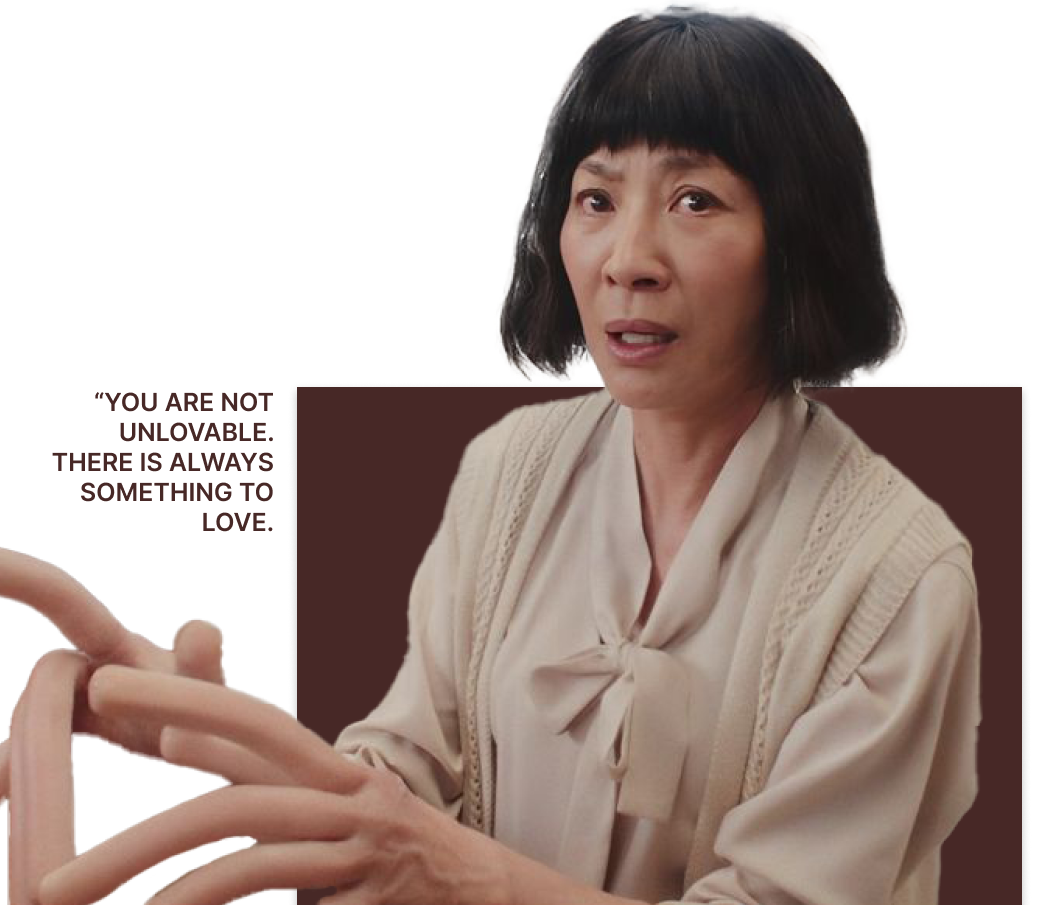
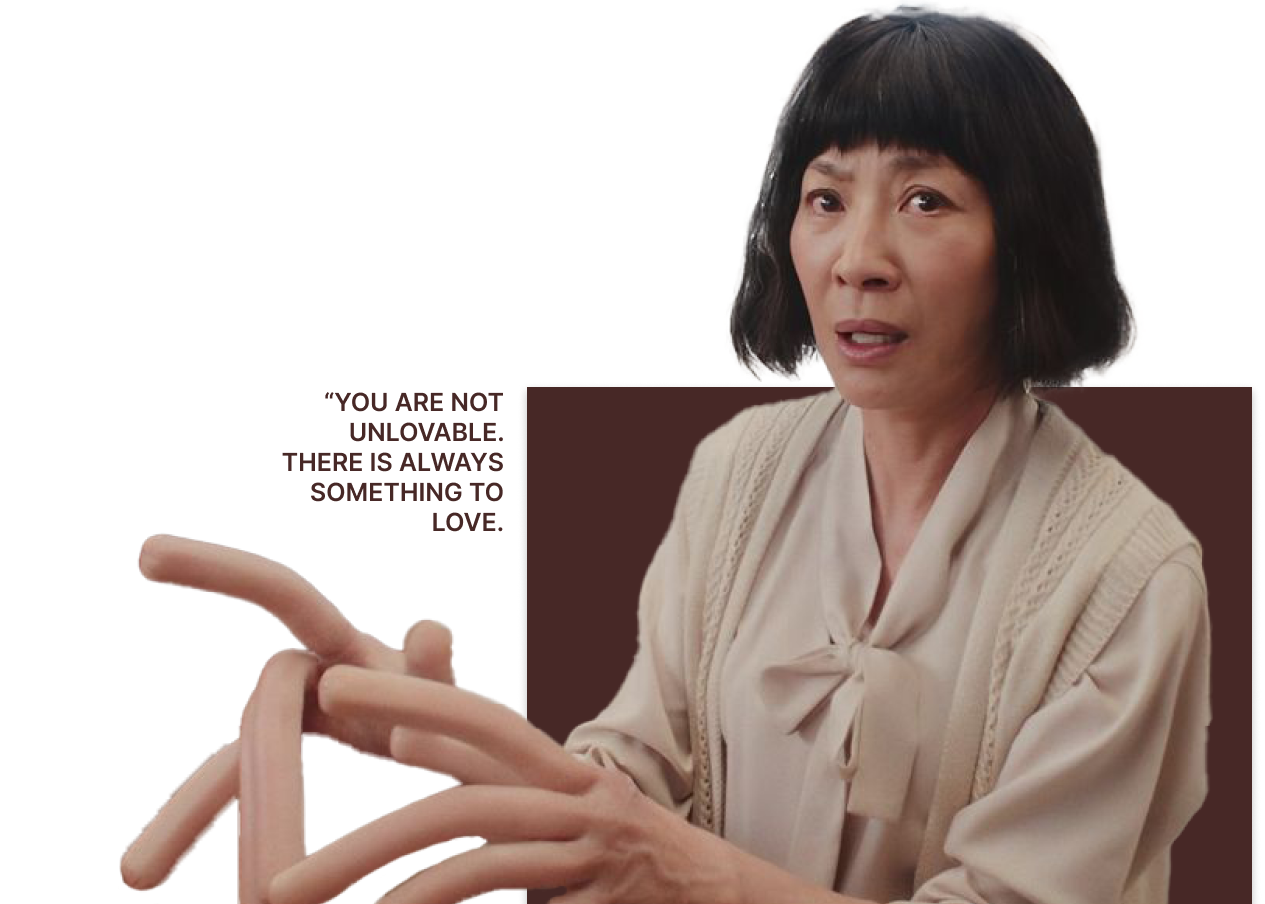
scrolling interactions

diff --git a/evelyn.html b/evelyn.html
@@ -34,29 +34,33 @@
 
         <div class="fight f1"><img src="rsrc/E/fight_f1.gif" alt="" class="fight f1" id="fightf1"></div>
         <div class="fight smoke1"><img src="rsrc/E/fight_smoke1.png" alt="" class="fight smoke1" id="fightsmoke1"></div>
-        <div class="fight f2"><img src="rsrc/E/fight_f2.png" alt="" class="fight f2" id="fightf2"></div>
+        <div class="fight f2"><img src="rsrc/E/fight_f2.png" alt="" class="fight f2" id="fightf2" style="opacity: 0;"></div>
         <div class="fight f3"><img src="rsrc/E/fight_f3.gif" alt="" class="fight f3" id="fightf3"></div>
         <div class="fight f4"><img src="rsrc/E/fight_f4.gif" alt="" class="fight f4" id="fightf4"></div>
         <div class="fight smoke2"><img src="rsrc/E/fight_smoke2.png" alt="" class="fight smoke2" id="fightsmoke2"></div>
-        <div class="fight f5"><img src="rsrc/E/fight_f5.png" alt="" class="fight f5" id="fightf5"></div>
+        <div class="fight f5"><img src="rsrc/E/fight_f5.png" alt="" class="fight f5" id="fightf5" style="opacity: 0;"></div>
         <div class="fight f6"><img src="rsrc/E/fight_f6.png" alt="" class="fight f6" id="fightf6"></div>
 
         <div class="whiteredbackground"><img src="rsrc/E/whiteredbackground.png" alt="" class="whiteredbackground" id="whiteredbackground"></div>
 
-        <div class="hotdog hdsmoke"><img src="rsrc/E/hotdog_hdsmoke.png" alt="" class="hotdog hdsmoke" id="hotdoghdsmoke"></div>
+        <div class="hotdog hdsmoke"><img src="rsrc/E/hotdog_hdsmoke.png" alt="" class="hotdog hdsmoke" id="hotdoghdsmoke" style="opacity: 0;"></div>
         <div class="hotdog hd2"><img src="rsrc/E/hotdog_hd2.png" alt="" class="hotdog hd2" id="hotdoghd2"></div>
         <div class="hotdog hd3"><img src="rsrc/E/hotdog_hd3.gif" alt="" class="hotdog hd3" id="hotdoghd3"></div>
+        <div class="hotdog button3" id="hotdogbutton3"></div>
         <div class="hotdog hd4"><img src="rsrc/E/hotdog_hd4.gif" alt="" class="hotdog hd4" id="hotdoghd4"></div>
         <div class="hotdog hd1"><img src="rsrc/E/hotdog_hd1.png" alt="" class="hotdog hd1" id="hotdoghd1"></div>
-        <div class="hotdog hdfont1"><img src="rsrc/E/hotdog_hdfont1.png" alt="" class="hotdog hdfont1" id="hotdoghdfont1"></div>
-        <div class="hotdog hdfont2"><img src="rsrc/E/hotdog_hdfont2.png" alt="" class="hotdog hdfont2" id="hotdoghdfont2"></div>
-        <div class="hotdog hdfont3"><img src="rsrc/E/hotdog_hdfont3.png" alt="" class="hotdog hdfont3" id="hotdoghdfont3"></div>
-        <div class="hotdog hdfont4"><img src="rsrc/E/hotdog_hdfont4.png" alt="" class="hotdog hdfont4" id="hotdoghdfont4"></div>
-        <div class="hotdog hdfont5"><img src="rsrc/E/hotdog_hdfont5.png" alt="" class="hotdog hdfont5" id="hotdoghdfont5"></div>
-        <div class="hotdog hdfont6"><img src="rsrc/E/hotdog_hdfont6.png" alt="" class="hotdog hdfont6" id="hotdoghdfont6"></div>
+        <div class="hotdog hdfont1"><img src="rsrc/E/hotdog_hdfont1.png" alt="" class="hotdog hdfont1" id="hotdoghdfont1" style="opacity: 0;"></div>
+        <div class="hotdog hdfont2"><img src="rsrc/E/hotdog_hdfont2.png" alt="" class="hotdog hdfont2" id="hotdoghdfont2" style="opacity: 0;"></div>
+        <div class="hotdog hdfont3"><img src="rsrc/E/hotdog_hdfont3.png" alt="" class="hotdog hdfont3" id="hotdoghdfont3" style="opacity: 0;"></div>
+        <div class="hotdog hdfont4"><img src="rsrc/E/hotdog_hdfont4.png" alt="" class="hotdog hdfont4" id="hotdoghdfont4" style="opacity: 0;"></div>
+        <div class="hotdog hdfont5"><img src="rsrc/E/hotdog_hdfont5.png" alt="" class="hotdog hdfont5" id="hotdoghdfont5" style="opacity: 0;"></div>
+        <div class="hotdog hdfont6"><img src="rsrc/E/hotdog_hdfont6.png" alt="" class="hotdog hdfont6" id="hotdoghdfont6" style="opacity: 0;"></div>
         <div class="hotdog hd5"><img src="rsrc/E/hotdog_hd5.png" alt="" class="hotdog hd5" id="hotdoghd5"></div>
         <div class="hotdog hd6"><img src="rsrc/E/hotdog_hd6.png" alt="" class="hotdog hd6" id="hotdoghd6"></div>
         <div class="hotdog hd7"><img src="rsrc/E/hotdog_hd7.png" alt="" class="hotdog hd7" id="hotdoghd7"></div>
+        <div class="hotdog hd02"><img src="rsrc/E/hotdog_hd02.png" alt="" class="hotdog hd02" id="hotdoghd02"></div>
+        <div class="hotdog hd01"><img src="rsrc/E/hotdog_hd01.png" alt="" class="hotdog hd01" id="hotdoghd01"></div>
+        
         
     </div>
 </body>

diff --git a/evelyn.js b/evelyn.js
@@ -104,10 +104,73 @@ document.addEventListener('DOMContentLoaded', function () {
                 document.getElementById("sentimental").style.transform = "translate(" + 3650 + "px , " + -100 + "px)";
             }
         }
-        else if (SF < 30000) {
+        else if (SF < 27300) {
             SF = scrollY;
             var SF_2 = SF - 11800;
             container.style.transform = "translate(" + -SF_2 + "px , " + SF + "px)";
+            if (SF > 22500) {
+                document.getElementById("fightf2").style.opacity = "1";
+            }
+            if (SF > 25500) {
+                document.getElementById("fightf5").style.opacity = "1";
+                document.getElementById("fightf5").style.transform = "translate(" + 7350 + "px , " + 200 + "px)";
+            }
+        }
+        else if (SF < 30500) {
+            SF = scrollY;
+            container.style.transform = "translate(" + -15500 + "px , " + SF + "px)";
+            if (SF > 27500) {
+                document.getElementById("hotdoghdsmoke").style.opacity = "1";
+                document.getElementById("hotdoghd1").style.transform = "translate(" + 8200 + "px , " + -900 + "px)";
+            }
+            if (SF > 27800) {
+                document.getElementById("hotdoghdfont1").style.opacity = "0";
+                document.getElementById("hotdoghd1").style.transform = "translate(" + 8200 + "px , " + 0 + "px)";
+            }
+            if (SF > 28000) {
+                document.getElementById("hotdoghdfont1").style.opacity = "1";
+                document.getElementById("hotdoghdfont2").style.opacity = "0";
+            }
+            if (SF > 28200) {
+                document.getElementById("hotdoghdfont2").style.opacity = "1";
+                document.getElementById("hotdoghdfont3").style.opacity = "0";
+            }
+            if (SF > 28400) {
+                document.getElementById("hotdoghdfont3").style.opacity = "1";
+                document.getElementById("hotdoghdfont4").style.opacity = "0";
+            }
+            if (SF > 28600) {
+                document.getElementById("hotdoghdfont4").style.opacity = "1";
+                document.getElementById("hotdoghdfont5").style.opacity = "0";
+            }
+            if (SF > 28800) {
+                document.getElementById("hotdoghdfont5").style.opacity = "1";
+                document.getElementById("hotdoghdfont6").style.opacity = "0";
+            }
+            if (SF > 29000) {
+                document.getElementById("hotdoghdfont6").style.opacity = "1";
+            }
+        }
+        else if (SF < 34000) {
+            SF = scrollY;
+            var SF_3 = SF - 15000;
+            container.style.transform = "translate(" + -SF_3 + "px , " + SF + "px)";
+
+            document.getElementById("hotdogbutton3").addEventListener("click", function() {
+                document.getElementById("hotdoghd3").style.animationName = "hddance";
+            });
+        }
+        else if (SF > 34000) {
+            SF = scrollY;
+            container.style.transform = "translate(" + -19350 + "px , " + SF + "px)";
+
+            document.getElementById("hotdoghd02").addEventListener("click", function() {
+                document.getElementById("hotdoghd02").style.transform = "translate(" + 10650 + "px , " + -350 + "px) scale(0.8)";
+                console.log("clicked!");
+            });
+            document.getElementById("hotdoghd01").addEventListener("click", function() {
+                document.getElementById("hotdoghd01").style.transform = "translate(" + 10600 + "px , " + -800 + "px) scale(0.8)";
+            });
         }
 
 

diff --git a/evelyn.css b/evelyn.css
@@ -134,13 +134,14 @@ body {
     z-index: 1;
 }
 .f1 {
-    transform: translate(5600px , 100px);
+    transform: translate(5600px , 150px) rotate(-5deg);
 }
 .smoke1 {
     transform: translate(5400px , 0px);
 }
 .f2 {
     transform: translate(5800px , 100px);
+    transition: 1s;
 }
 .f3 {
     transform: translate(6400px , 80px);
@@ -152,7 +153,8 @@ body {
     transform: translate(5970px , 0px);
 }
 .f5 {
-    transform: translate(7350px , 200px);
+    transform: translate(7200px , 200px);
+    transition: 0.5s;
 }
 .f6 {
     transform: translate(7000px , 90px);
@@ -174,43 +176,80 @@ body {
 }
 .hdsmoke {
     transform: translate(7700px , 0px);
+    transition: 1s;
 }
 .hdfont1 {
     transform: translate(7850px , 30px);
+    transition: 0.1s;
 }
 .hdfont2 {
     transform: translate(7920px , 70px);
+    transition: 0.1s;
 }
 .hdfont3 {
     transform: translate(7880px , 150px);
+    transition: 0.1s;
 }
 .hdfont4 {
     transform: translate(8000px , 210px);
+    transition: 0.1s;
 }
 .hdfont5 {
     transform: translate(8000px , 250px);
+    transition: 0.1s;
 }
 .hdfont6 {
     transform: translate(7900px , 300px);
+    transition: 0.1s;
 }
 .hd1 {
     transform: translate(8200px , -800px);
+    transition: 5s;
 }
 .hd2 {
     transform: translate(8600px , 40px);
 }
 .hd3 {
     transform: translate(8700px , 200px);
+    animation: 2.65s 5;
+}
+.button3 {
+    transform: translate(17400px , 400px);
+    width: 540px;
+    height: 400px;
+    z-index: 2;
+}
+@keyframes hddance {
+    0% {
+        transform: translate(8700px , 200px);
+    }
+    50% {
+        transform: translate(8700px , 250px);
+    }
+    100% {
+        transform: translate(8700px , 200px);
+    }
 }
 .hd4 {
     transform: translate(8900px , 0px);
 }
 .hd5 {
-    transform: translate(9100px , 0px);
+    transform: translate(9000px , 20px);   
 }
 .hd6 {
     transform: translate(9700px , 20px);
 }
 .hd7 {
     transform: translate(10100px , 0px);
+    opacity: 0.5;
+}
+.hd01 {
+    transform: translate(10650px , -300px) scale(0.8);
+    z-index: 2;
+    transition: 1s;
+}
+.hd02 {
+    transform: translate(10600px , -950px) scale(0.8);
+    z-index: 2;
+    transition: 1s;
 }
